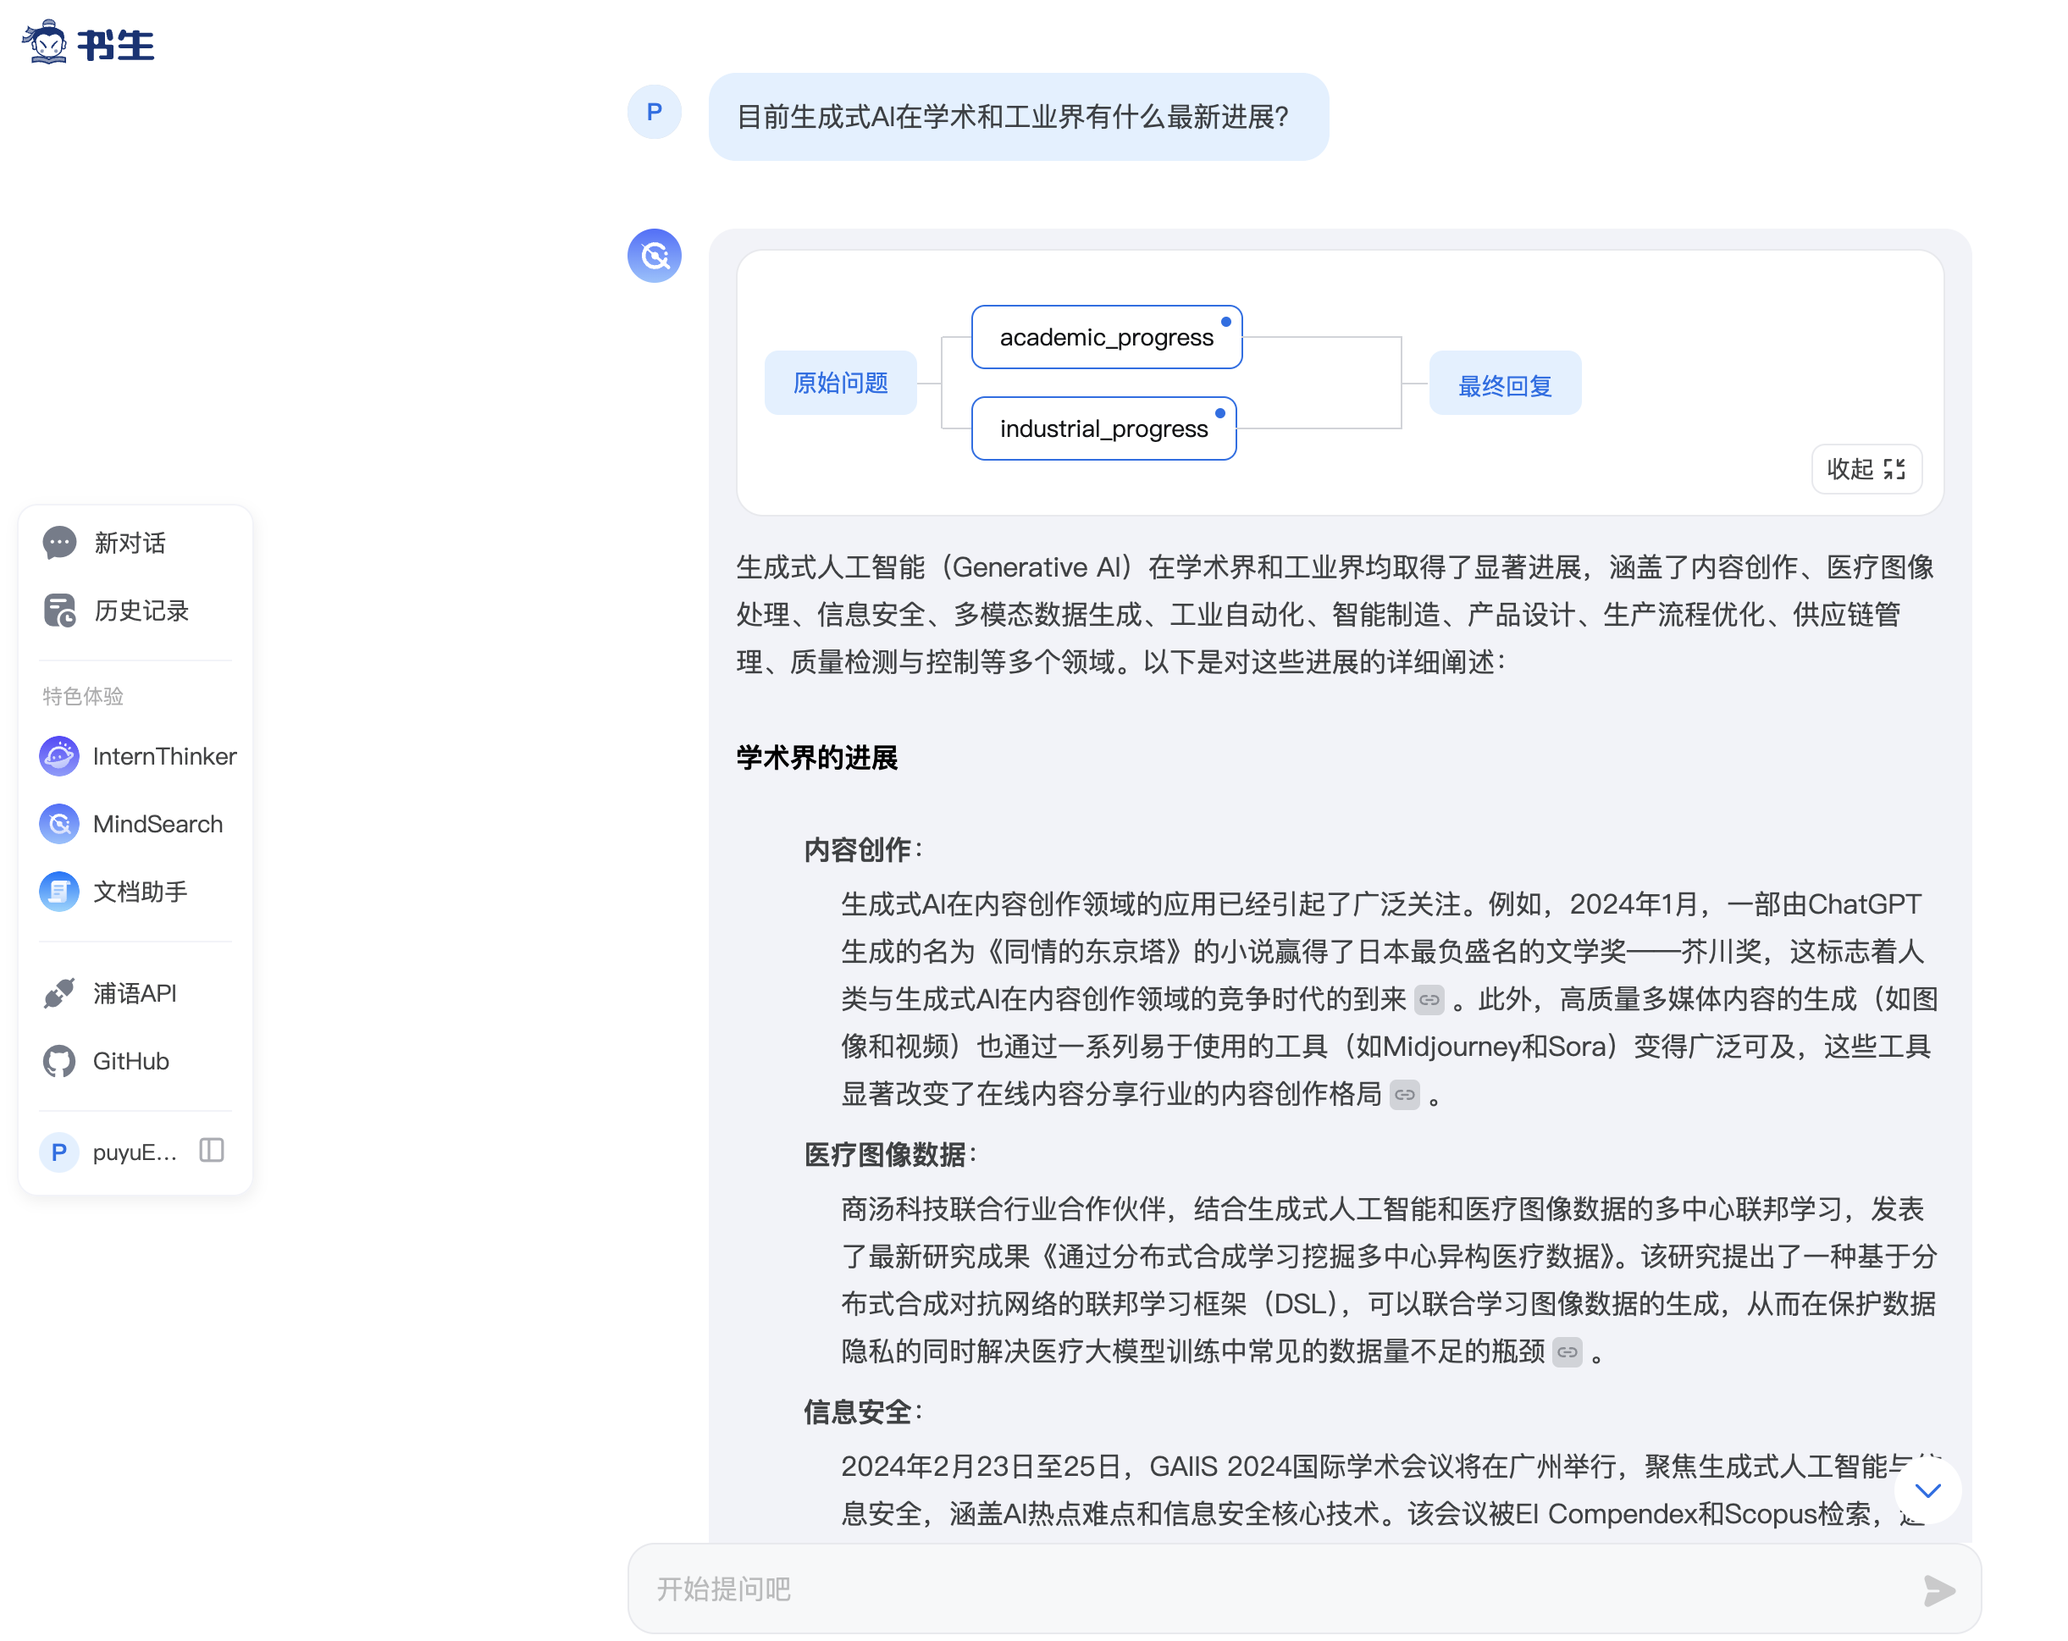
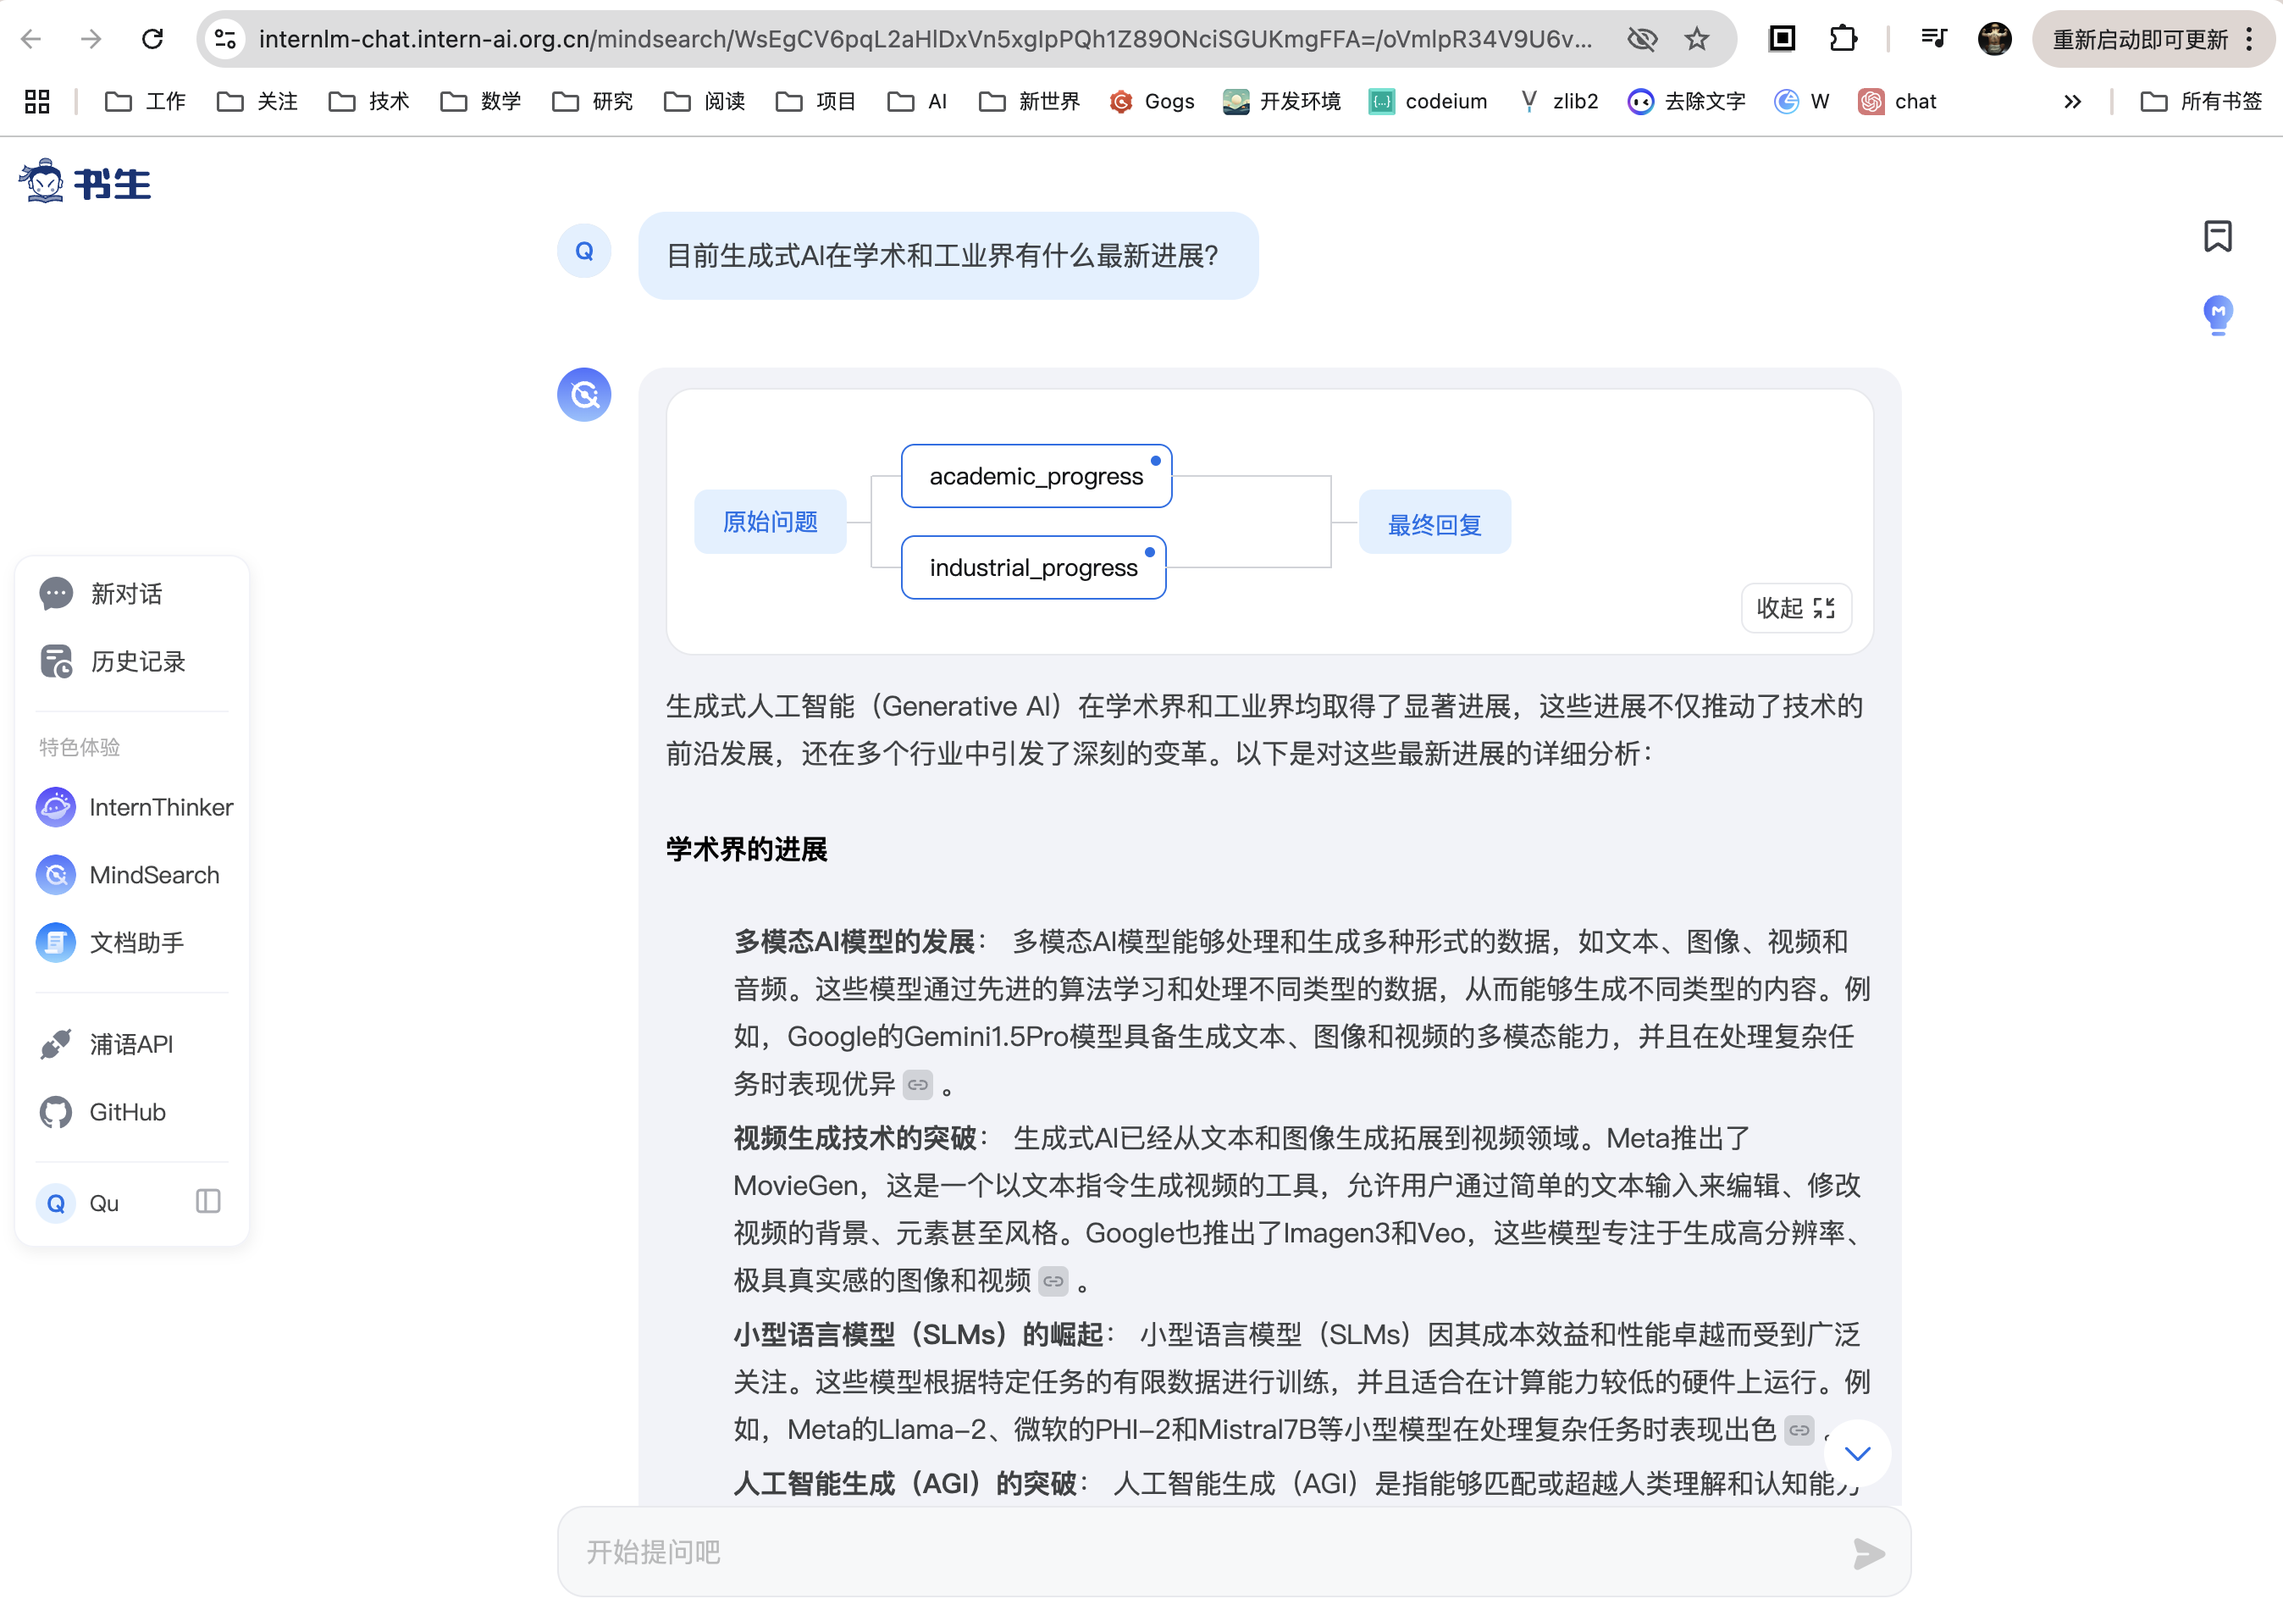
重新截图标明来源

diff --git a/docs/L1/mission2/readme.md b/docs/L1/mission2/readme.md
@@ -2,16 +2,32 @@
 
 # MindSearch
 
+让MindSearch回答生成式AI在学术和工业界的最新进展：
+
 ![](imgs/image-1.png)
 
 # 书生浦语
+
+通过书生浦语实现前端代码的coding工作：
 
 ![](imgs/image-2.png)
 
 # 书生万象
 
+对书生浦语API使用情况截图，让书生万象进行理解
+
+![](imgs/image-6.png)
+
+书生万象正确解析了网页截图内容
+
 ![](imgs/image-3.png)
 
 # 进阶任务
 
+使用书生浦语MindSearch AI回答知乎问题
+
 知乎链接： https://www.zhihu.com/question/1841339763/answer/40399546990
+
+![](imgs/image-4.png)
+
+![](imgs/image-5.png)

diff --git a/docs/L1/mission1/readme.md b/docs/L1/mission1/readme.md
@@ -1,5 +1,9 @@
 # 书生大模型全链路开源开放体系笔记
 
+本文同步发送到知乎专栏 https://zhuanlan.zhihu.com/p/9387109817
+
+![](imgs/image-1.png)
+
 ## 概览
 
 书生大模型全链路开源开放体系涵盖了开源模型研究、工程和应用环节，提供了一个全面的开源环境，包括模型、工具和资源，以支持大模型的开发、部署和应用。
